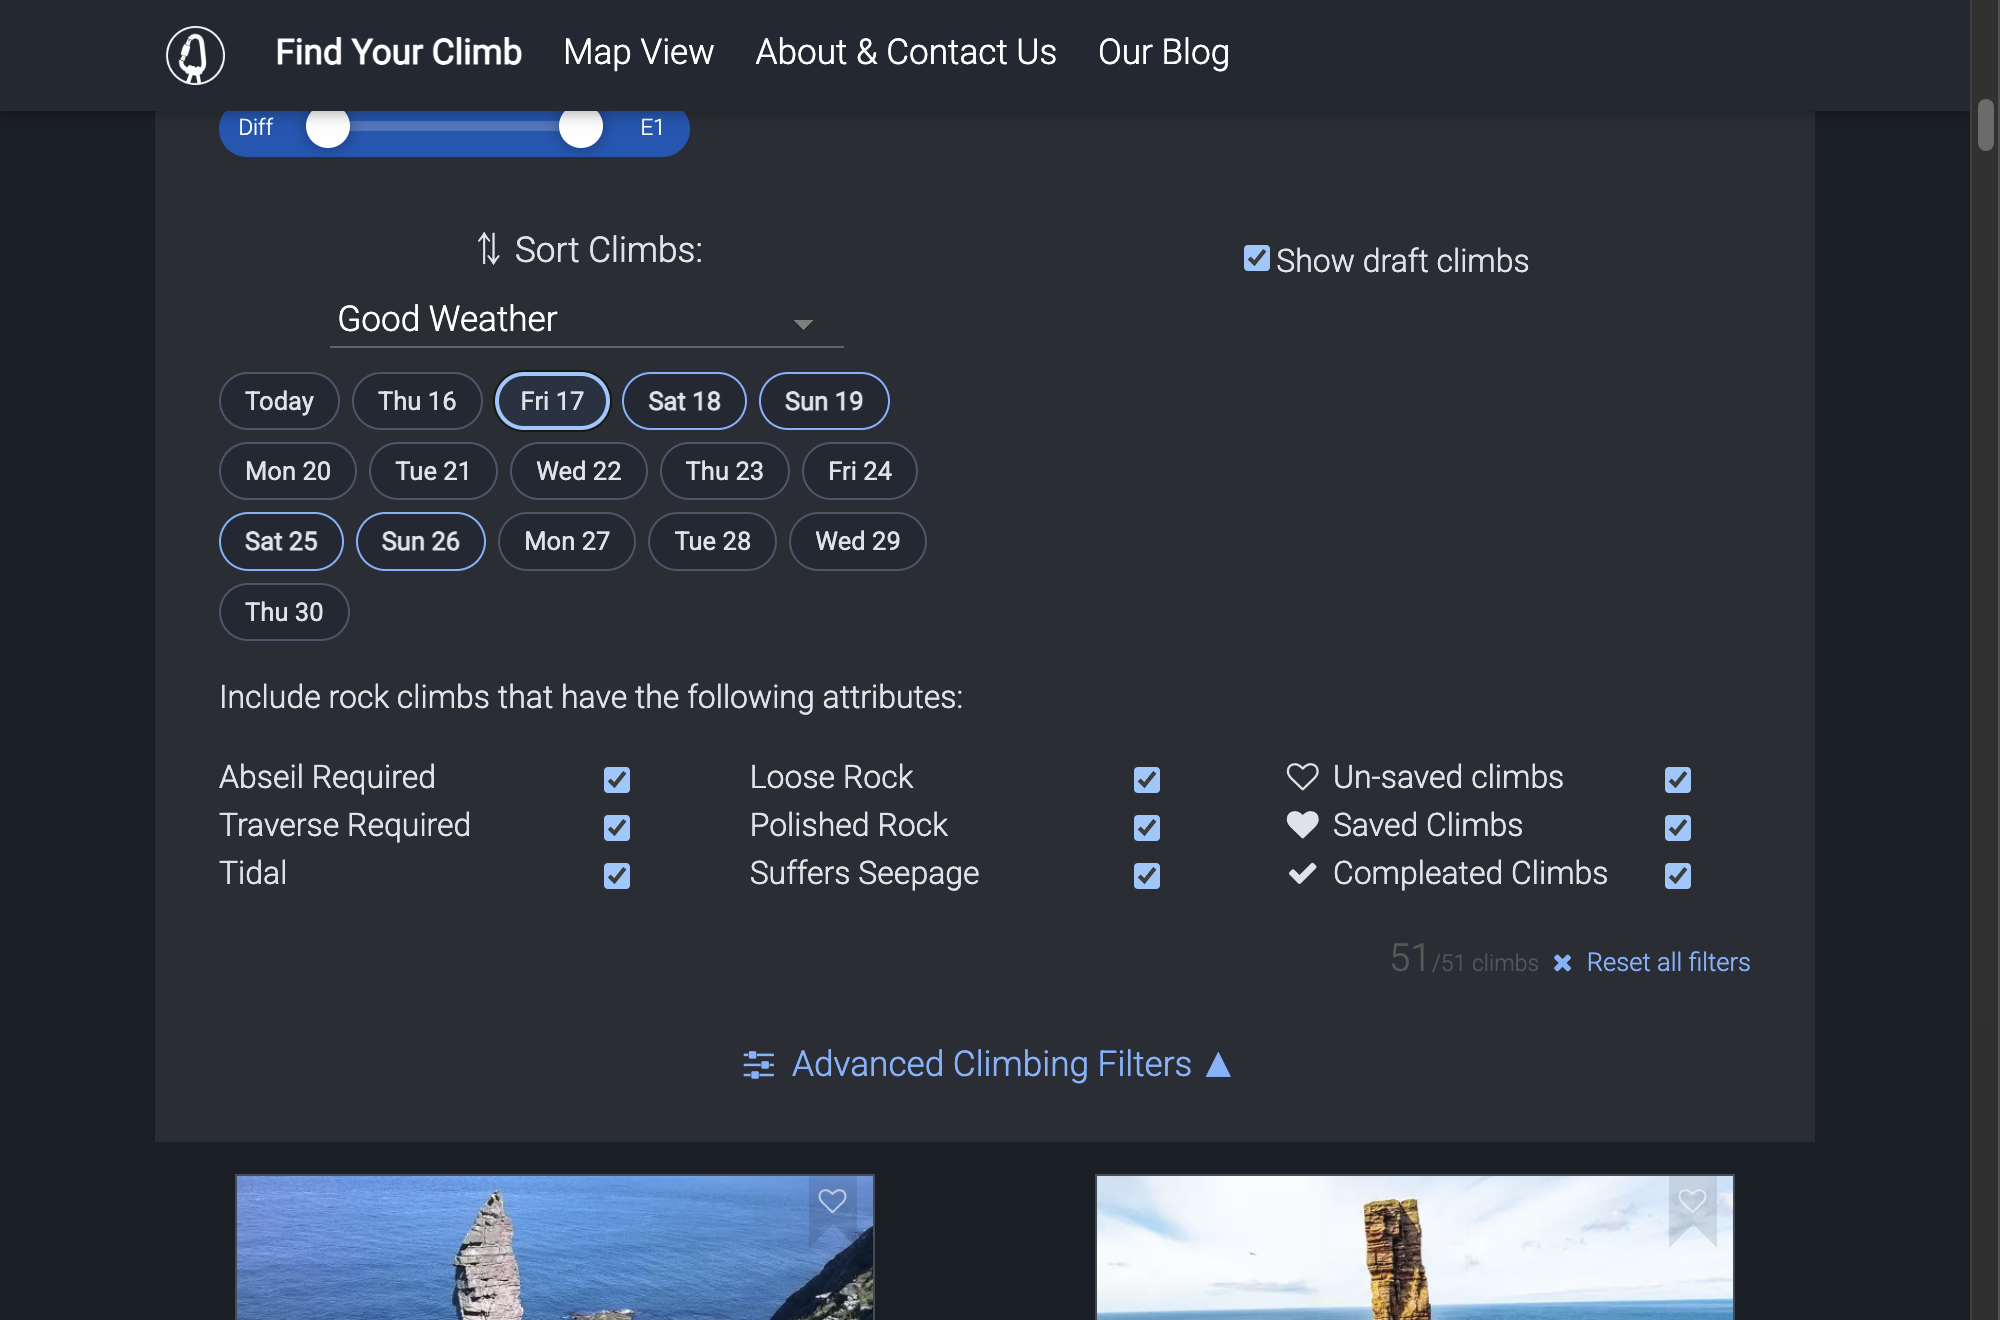
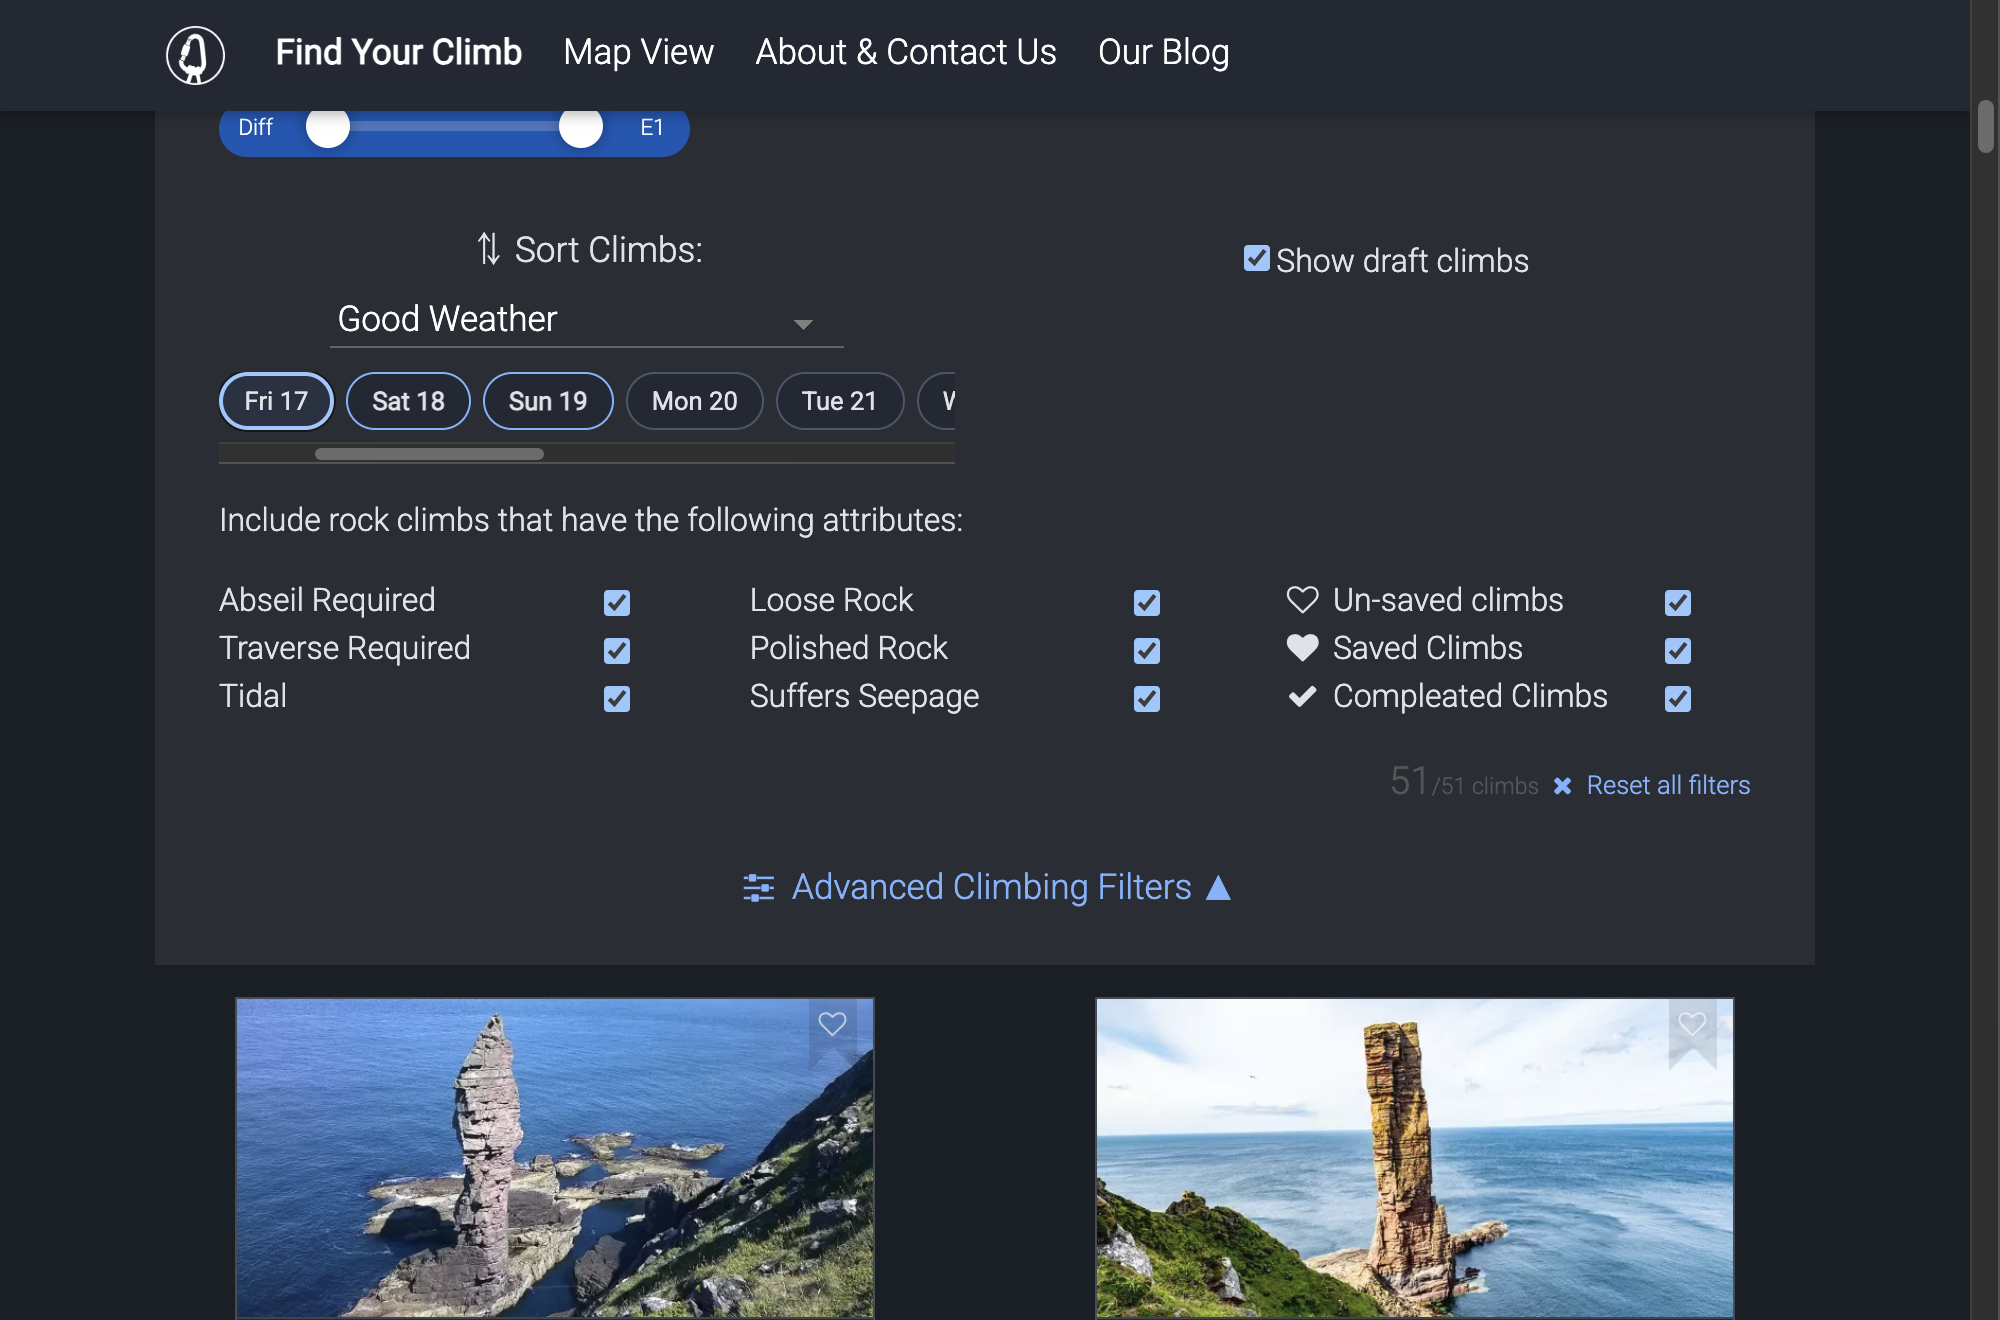
Day chips: one scrollable row instead of four wrapped rows
Sixteen wrapped chips dominated the filter panel. The picker is now a
single horizontally scrollable row - the same interaction the forecast
strip teaches - with the soonest days and first weekend visible without
scrolling.

diff --git a/website/css/style.css b/website/css/style.css
@@ -2211,12 +2211,19 @@ html[data-theme="dark"] .warning{
 .wx-hour .wx-temp strong{
   font-size: 0.9rem;
 }
-/* day chips for sorting climbs by the weather on a chosen day */
+/* day chips for sorting climbs by the weather on a chosen day:
+   one scrollable row, same interaction as the forecast strip */
 .wx-daypicker{
   display: flex;
-  flex-wrap: wrap;
   gap: 6px;
   margin-top: 0.75rem;
+  overflow-x: auto;
+  -webkit-overflow-scrolling: touch;
+  scrollbar-width: thin;
+  padding-bottom: 6px;
+}
+.wx-chip{
+  flex: 0 0 auto;
 }
 .wx-chip{
   border: 1px solid #c6cfda;